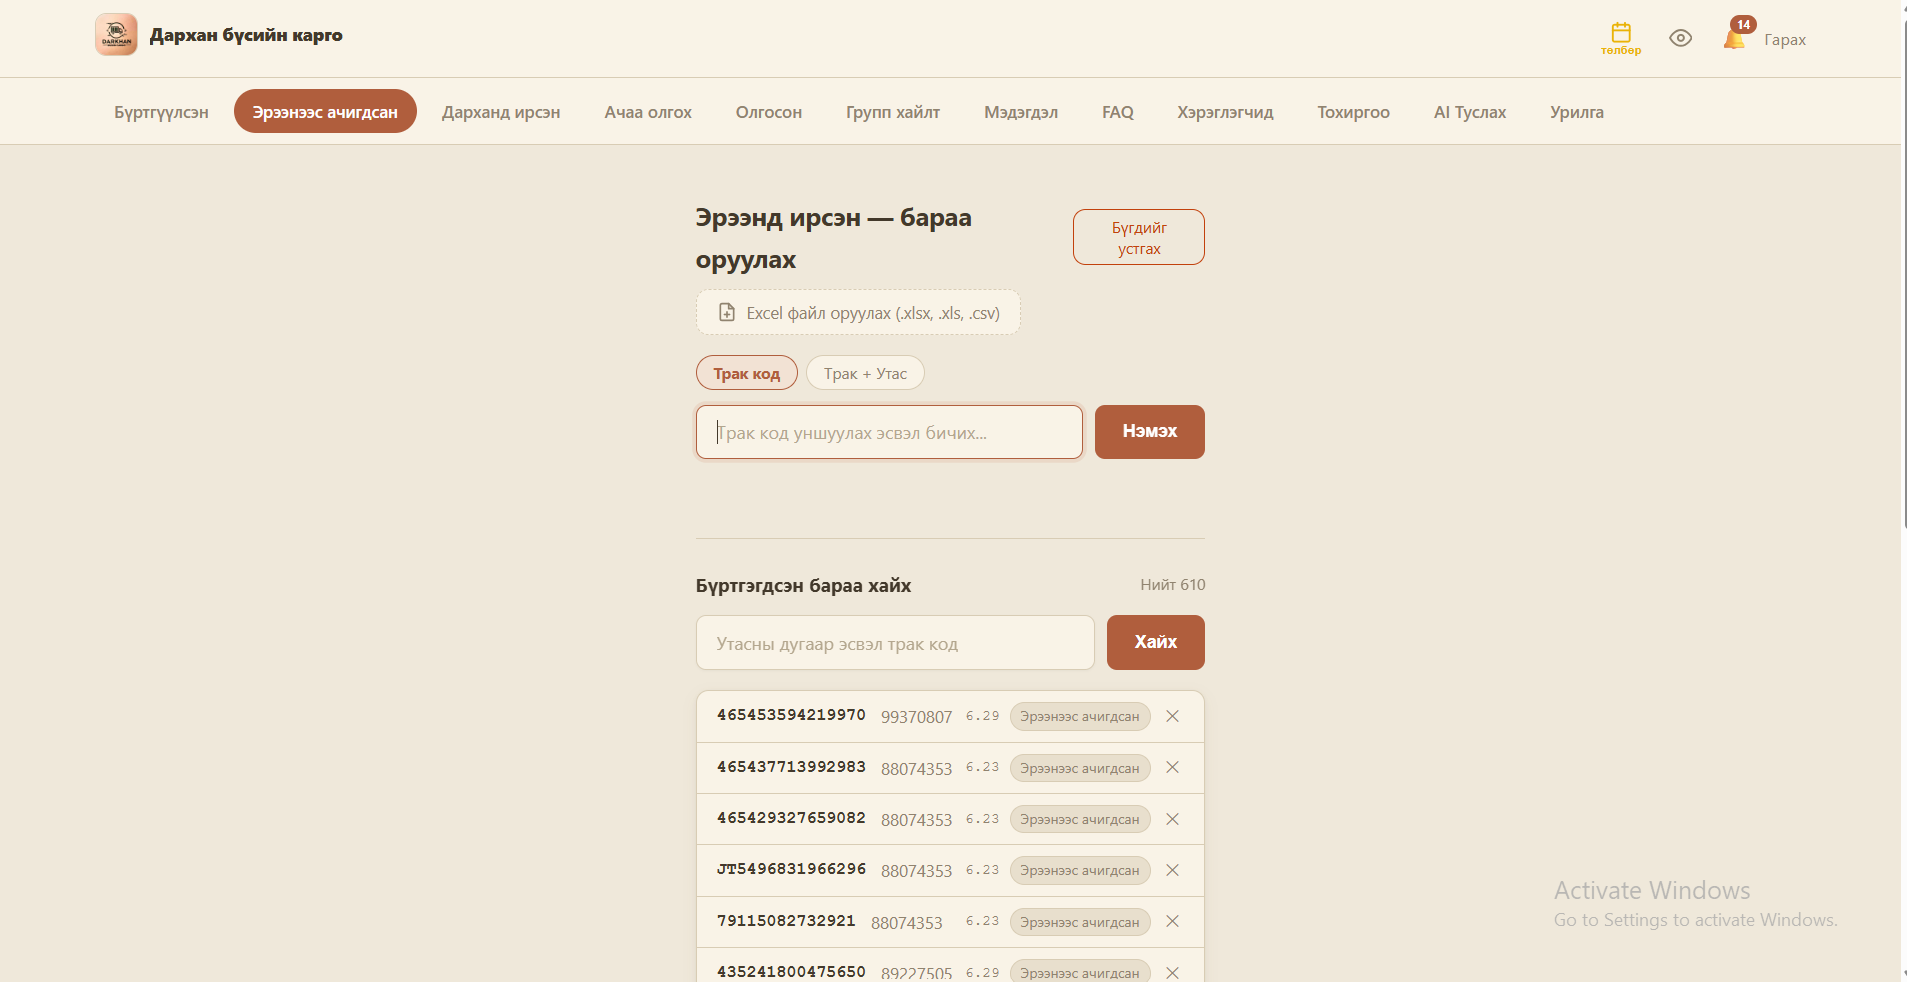
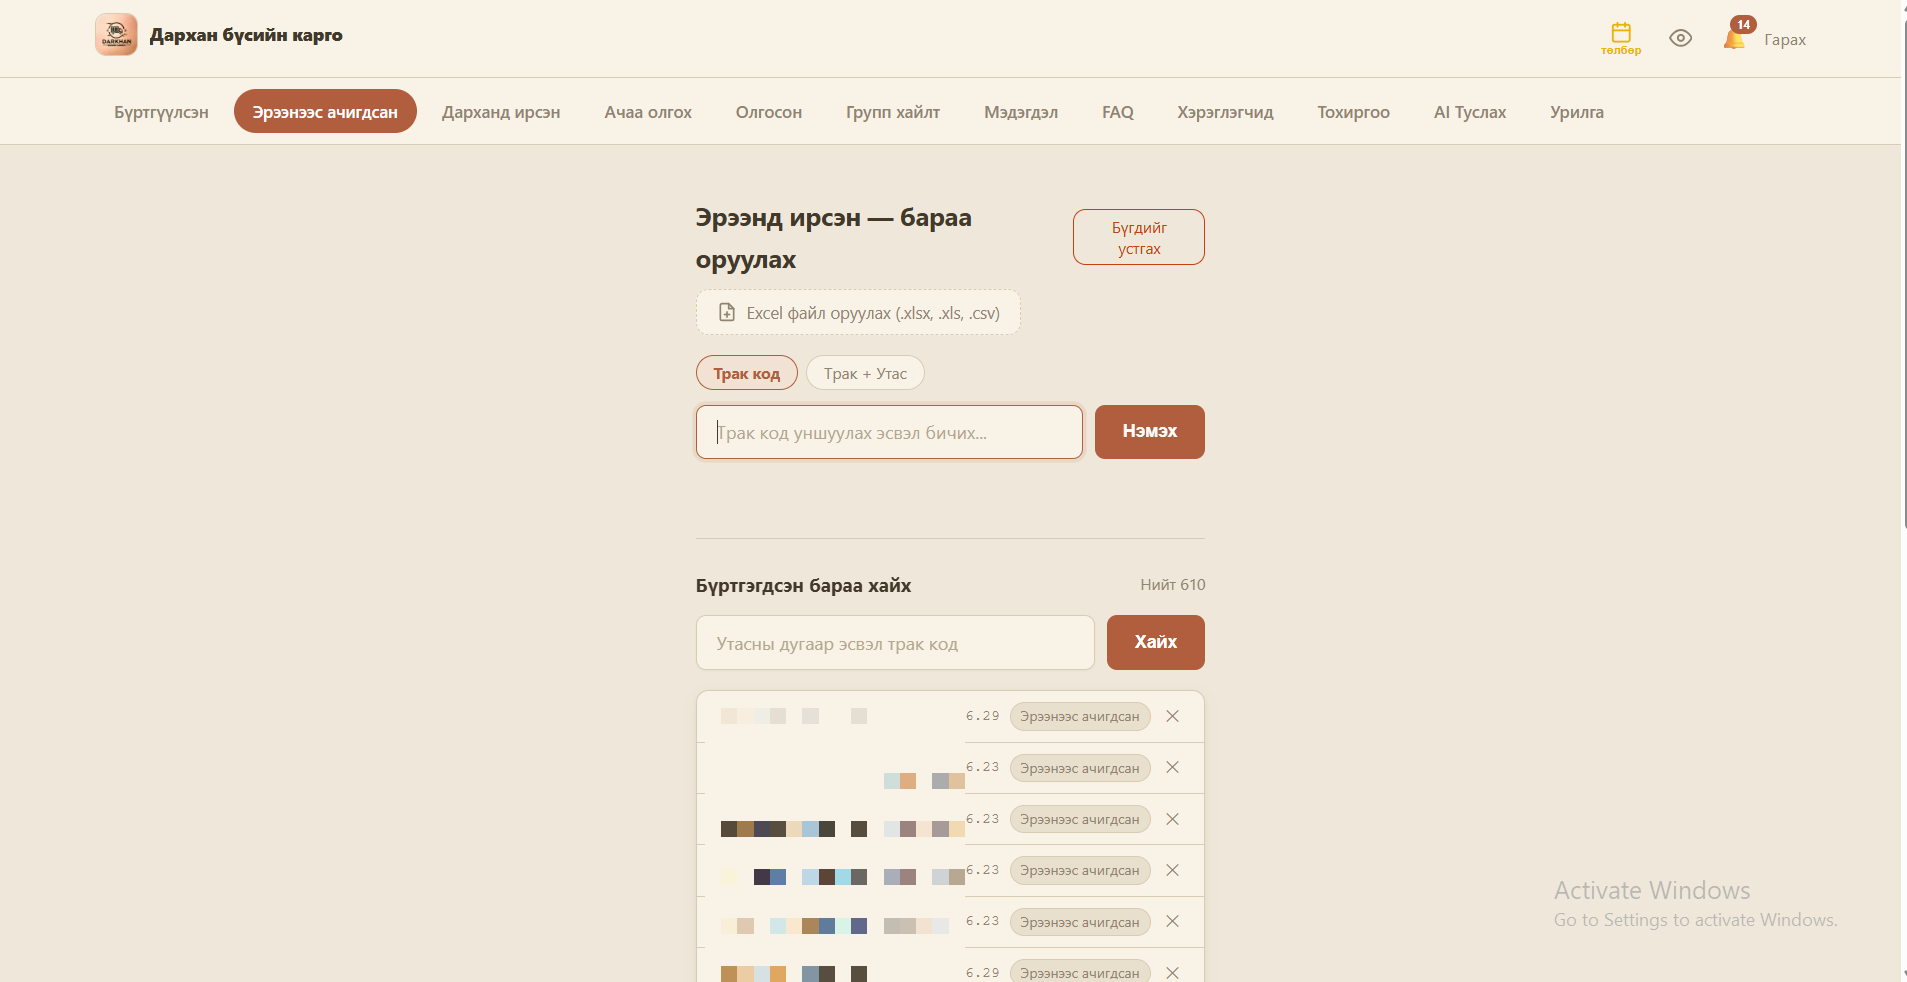
Fullscreen shot viewer: swipe/arrow navigation, scroll lock; pixelate PII in desk screenshot
- Viewer now tracks index: swipe left/right on touch navigates between
  screenshots (wraps around), on-screen prev/next arrows, 1/6 counter;
  body scroll locked while open so background no longer scrolls
- desk-ereen.png: track code and phone columns pixelated (customer PII)

Changed region(s): [[0.3713, 0.7637, 0.526, 1.0], [0.3713, 0.7026, 0.495, 0.7332]]

diff --git a/app/MarketingLanding.tsx b/app/MarketingLanding.tsx
@@ -1,5 +1,5 @@
 'use client'
-import { useState, useRef } from 'react'
+import { useState, useRef, useEffect } from 'react'
 import Link from 'next/link'
 import NavLogo from './components/NavLogo'
 
@@ -77,8 +77,9 @@ export default function MarketingLanding({ stats, partnerCargos = [], warehouses
   const [loading, setLoading] = useState(false)
   const [whDetail, setWhDetail] = useState<Warehouse | null>(null)
   const whScroll = useRef<HTMLDivElement>(null)
-  const [shotView, setShotView] = useState<{ src: string; label: string } | null>(null)
+  const [shotIdx, setShotIdx] = useState<number | null>(null)
   const shotScroll = useRef<HTMLDivElement>(null)
+  const touchX = useRef<number | null>(null)
 
   function scrollWh(dir: -1 | 1) {
     whScroll.current?.scrollBy({ left: dir * 340, behavior: 'smooth' })
@@ -87,6 +88,18 @@ export default function MarketingLanding({ stats, partnerCargos = [], warehouses
   function scrollShots(dir: -1 | 1) {
     shotScroll.current?.scrollBy({ left: dir * 320, behavior: 'smooth' })
   }
+
+  function shotNav(dir: -1 | 1) {
+    setShotIdx(i => i === null ? i : (i + dir + SHOTS.length) % SHOTS.length)
+  }
+
+  // Fullscreen үзэгч нээлттэй үед ар талын хуудасны scroll-ийг түгжинэ
+  useEffect(() => {
+    if (shotIdx === null) return
+    const prev = document.body.style.overflow
+    document.body.style.overflow = 'hidden'
+    return () => { document.body.style.overflow = prev }
+  }, [shotIdx])
 
   async function search() {
     const val = query.trim().toUpperCase().replace(/\s+/g, '')
@@ -181,9 +194,9 @@ export default function MarketingLanding({ stats, partnerCargos = [], warehouses
               scrollSnapType: 'x mandatory', scrollbarWidth: 'none',
               padding: '4px 2px', WebkitOverflowScrolling: 'touch',
             }}>
-              {SHOTS.map(s => (
+              {SHOTS.map((s, i) => (
                 <figure key={s.src} style={{ margin: 0, flex: '0 0 auto', scrollSnapAlign: 'start', textAlign: 'center' }}>
-                  <button onClick={() => setShotView(s)} style={{
+                  <button onClick={() => setShotIdx(i)} style={{
                     padding: 0, border: '1px solid var(--border)', borderRadius: 12,
                     overflow: 'hidden', cursor: 'zoom-in', background: 'var(--surface)',
                     boxShadow: '0 6px 24px rgba(0,0,0,0.10)', display: 'block',
@@ -524,18 +537,47 @@ export default function MarketingLanding({ stats, partnerCargos = [], warehouses
         </div>
       )}
 
-      {/* Дэлгэцийн зураг — fullscreen үзэгч */}
-      {shotView && (
-        <div onClick={() => setShotView(null)} style={{
-          position: 'fixed', inset: 0, background: 'rgba(0,0,0,0.88)', zIndex: 1000,
-          display: 'flex', flexDirection: 'column', alignItems: 'center', justifyContent: 'center',
-          padding: '1rem', cursor: 'zoom-out',
-        }}>
+      {/* Дэлгэцийн зураг — fullscreen үзэгч (swipe + сум навигацитай) */}
+      {shotIdx !== null && (
+        <div
+          onClick={() => setShotIdx(null)}
+          onTouchStart={e => { touchX.current = e.touches[0].clientX }}
+          onTouchEnd={e => {
+            if (touchX.current === null) return
+            const dx = e.changedTouches[0].clientX - touchX.current
+            touchX.current = null
+            if (dx < -40) shotNav(1)
+            else if (dx > 40) shotNav(-1)
+          }}
+          style={{
+            position: 'fixed', inset: 0, background: 'rgba(0,0,0,0.88)', zIndex: 1000,
+            display: 'flex', flexDirection: 'column', alignItems: 'center', justifyContent: 'center',
+            padding: '1rem', cursor: 'zoom-out', touchAction: 'none',
+          }}
+        >
           {/* eslint-disable-next-line @next/next/no-img-element */}
-          <img src={shotView.src} alt={shotView.label}
-            style={{ maxWidth: '100%', maxHeight: '85vh', objectFit: 'contain', borderRadius: 10 }} />
-          <p style={{ color: '#fff', fontSize: '0.85rem', marginTop: '0.75rem', textAlign: 'center' }}>{shotView.label}</p>
-          <button onClick={() => setShotView(null)} aria-label="Хаах" style={{
+          <img src={SHOTS[shotIdx].src} alt={SHOTS[shotIdx].label}
+            onClick={e => e.stopPropagation()}
+            style={{ maxWidth: '100%', maxHeight: '80vh', objectFit: 'contain', borderRadius: 10 }} />
+          <p style={{ color: '#fff', fontSize: '0.85rem', marginTop: '0.75rem', textAlign: 'center' }}>
+            {SHOTS[shotIdx].label}
+            <span style={{ opacity: 0.55, marginLeft: 8, fontSize: '0.75rem' }}>{shotIdx + 1}/{SHOTS.length}</span>
+          </p>
+          <button onClick={e => { e.stopPropagation(); shotNav(-1) }} aria-label="Өмнөх" style={{
+            position: 'absolute', left: 10, top: '50%', transform: 'translateY(-50%)',
+            background: 'rgba(255,255,255,0.15)', border: 'none',
+            borderRadius: '50%', width: 40, height: 40, cursor: 'pointer',
+            fontSize: '1.3rem', lineHeight: 1, color: '#fff',
+            display: 'flex', alignItems: 'center', justifyContent: 'center',
+          }}>‹</button>
+          <button onClick={e => { e.stopPropagation(); shotNav(1) }} aria-label="Дараах" style={{
+            position: 'absolute', right: 10, top: '50%', transform: 'translateY(-50%)',
+            background: 'rgba(255,255,255,0.15)', border: 'none',
+            borderRadius: '50%', width: 40, height: 40, cursor: 'pointer',
+            fontSize: '1.3rem', lineHeight: 1, color: '#fff',
+            display: 'flex', alignItems: 'center', justifyContent: 'center',
+          }}>›</button>
+          <button onClick={() => setShotIdx(null)} aria-label="Хаах" style={{
             position: 'absolute', top: 'calc(12px + env(safe-area-inset-top))', right: 14,
             background: 'rgba(255,255,255,0.15)', border: 'none',
             borderRadius: '50%', width: 36, height: 36, cursor: 'pointer',